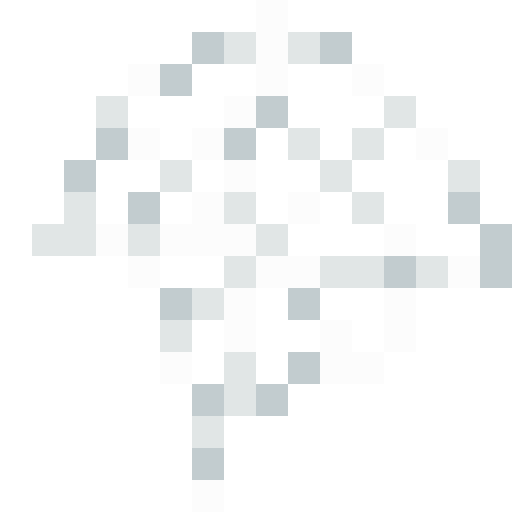
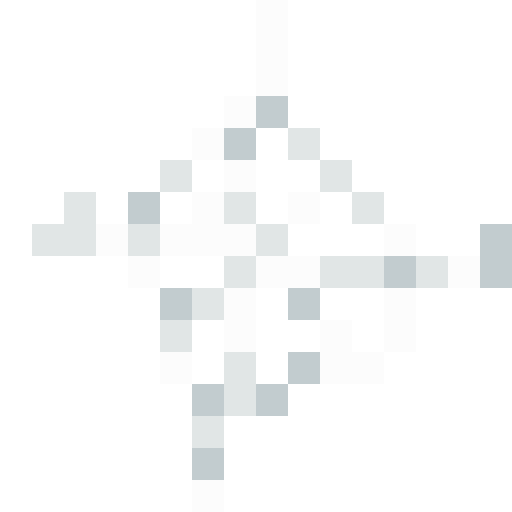
added new progress bar image for 0 completion

diff --git a/src/ProgressBar.tsx b/src/ProgressBar.tsx
@@ -6,10 +6,11 @@ import miniWeb3 from "./assets/images/objects/progress bar/miniWeb3.png";
 import miniWeb4 from "./assets/images/objects/progress bar/miniWeb4.png";
 import miniWeb5 from "./assets/images/objects/progress bar/miniWeb5.png";
 import miniWeb6 from "./assets/images/objects/progress bar/miniWeb6.png";
+import miniWeb7 from "./assets/images/objects/progress bar/miniWeb7.png";
 import "./assets/css/ProgressBar.css"
 
-export function ProgressBar({pageNum}: {pageNum: number}): JSX.Element{
-    const progressBarWebs = ["", miniWeb0, miniWeb1, miniWeb2, miniWeb3, miniWeb4, miniWeb5, miniWeb6];
+export function ProgressBar({amountCompleted}: {amountCompleted: number}): JSX.Element{
+    const progressBarWebs = [miniWeb0, miniWeb1, miniWeb2, miniWeb3, miniWeb4, miniWeb5, miniWeb6, miniWeb7];
     const [isHovering, changeHovering] = useState<boolean>(false);
 
     function setToHovering(){
@@ -24,10 +25,10 @@ export function ProgressBar({pageNum}: {pageNum: number}): JSX.Element{
     // On hover, the amount of the quiz that has been completed so far appears on top of the spider web image.
     return(
         <div className = "Progress-Bar" onMouseOver = {setToHovering} onMouseLeave = {setToNotHovering}>
-            <img src={progressBarWebs[pageNum]} alt = {"web image"} className = "Web-Image"></img>
+            <img src={progressBarWebs[amountCompleted]} alt = {"web image"} className = "Web-Image"></img>
 
             {isHovering ? 
-            <div className = "Amount-Completed">{"" + pageNum + "/7"}</div> :
+            <div className = "Amount-Completed">{"" + amountCompleted + "/7"}</div> :
             <div>{/*"Replace this div with the image to have it swap between the image and completion count instead of overlaying them"*/}</div>
             }
         </div>

diff --git a/src/Background.tsx b/src/Background.tsx
@@ -42,7 +42,7 @@ export function Background({quizType}: {quizType: string}): JSX.Element{
             <ChangePage pageNumber={pageNumber} changePageNumber={changePageNumber}></ChangePage>
             
             <img src = {backgrounds[pageNumber - 1]} alt = "Background image" className="Background-Image"></img>
-            <ProgressBar pageNum={completionAmount}></ProgressBar>
+            <ProgressBar amountCompleted={completionAmount}></ProgressBar>
             
         </div>
     );
